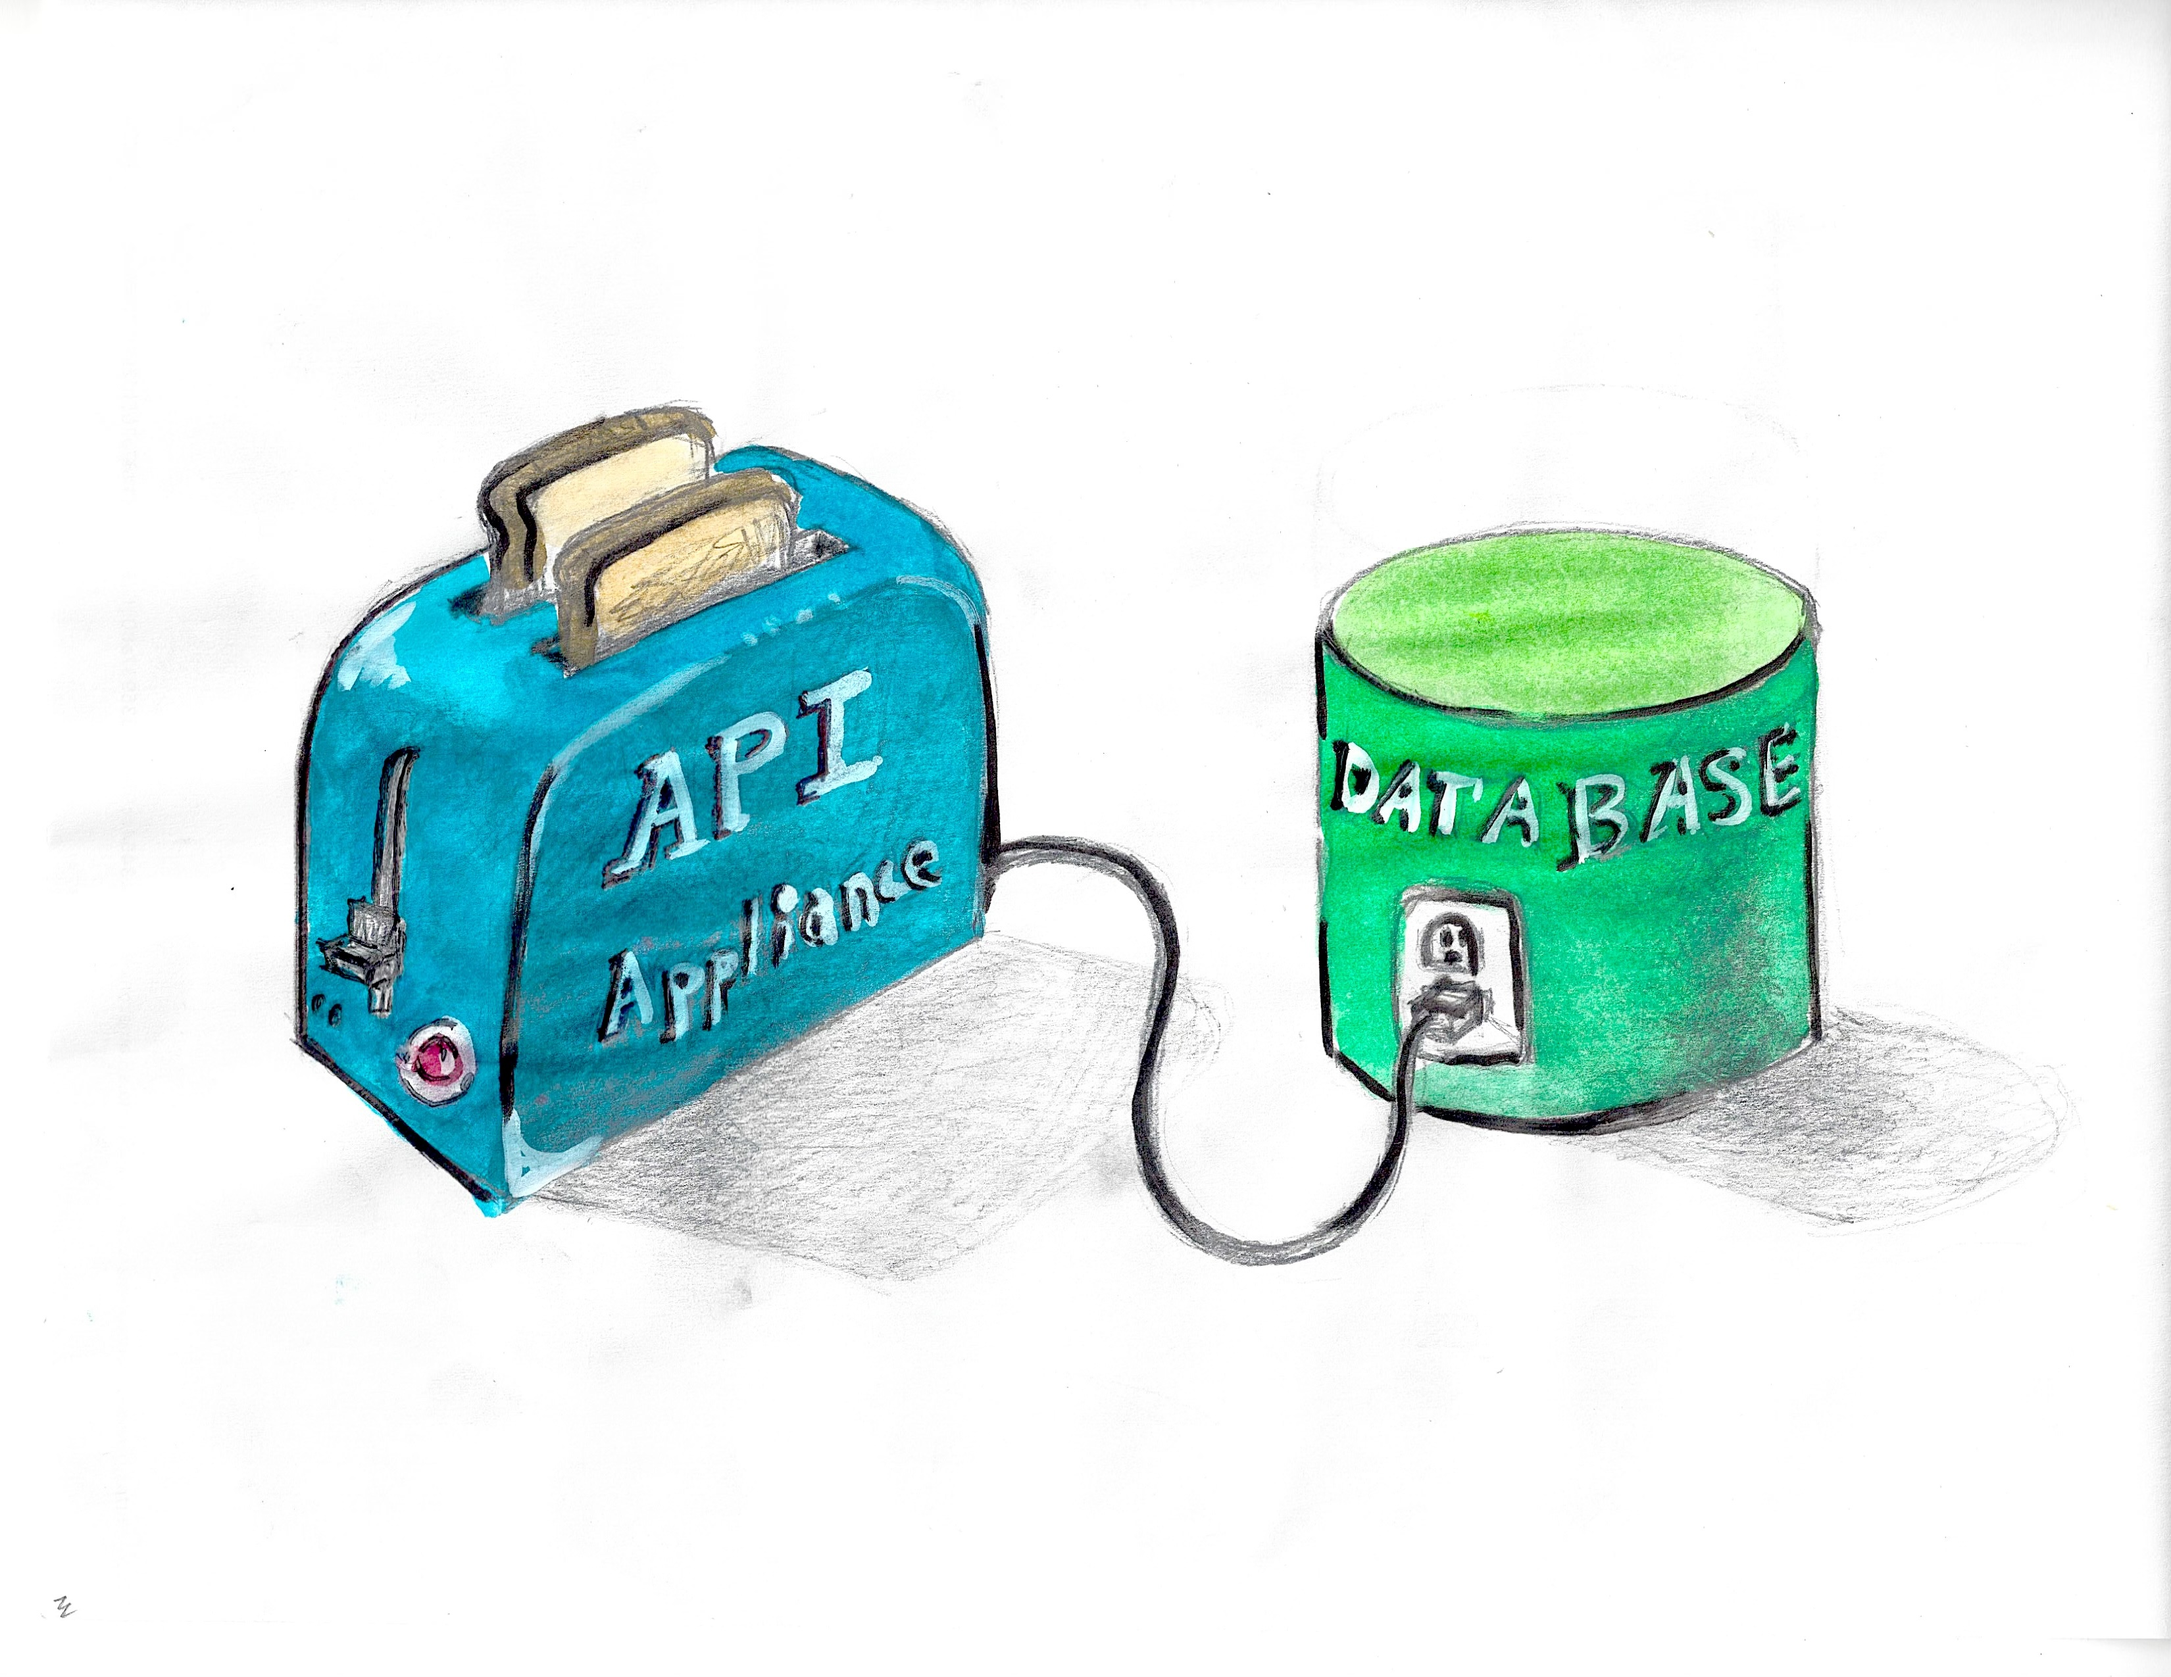
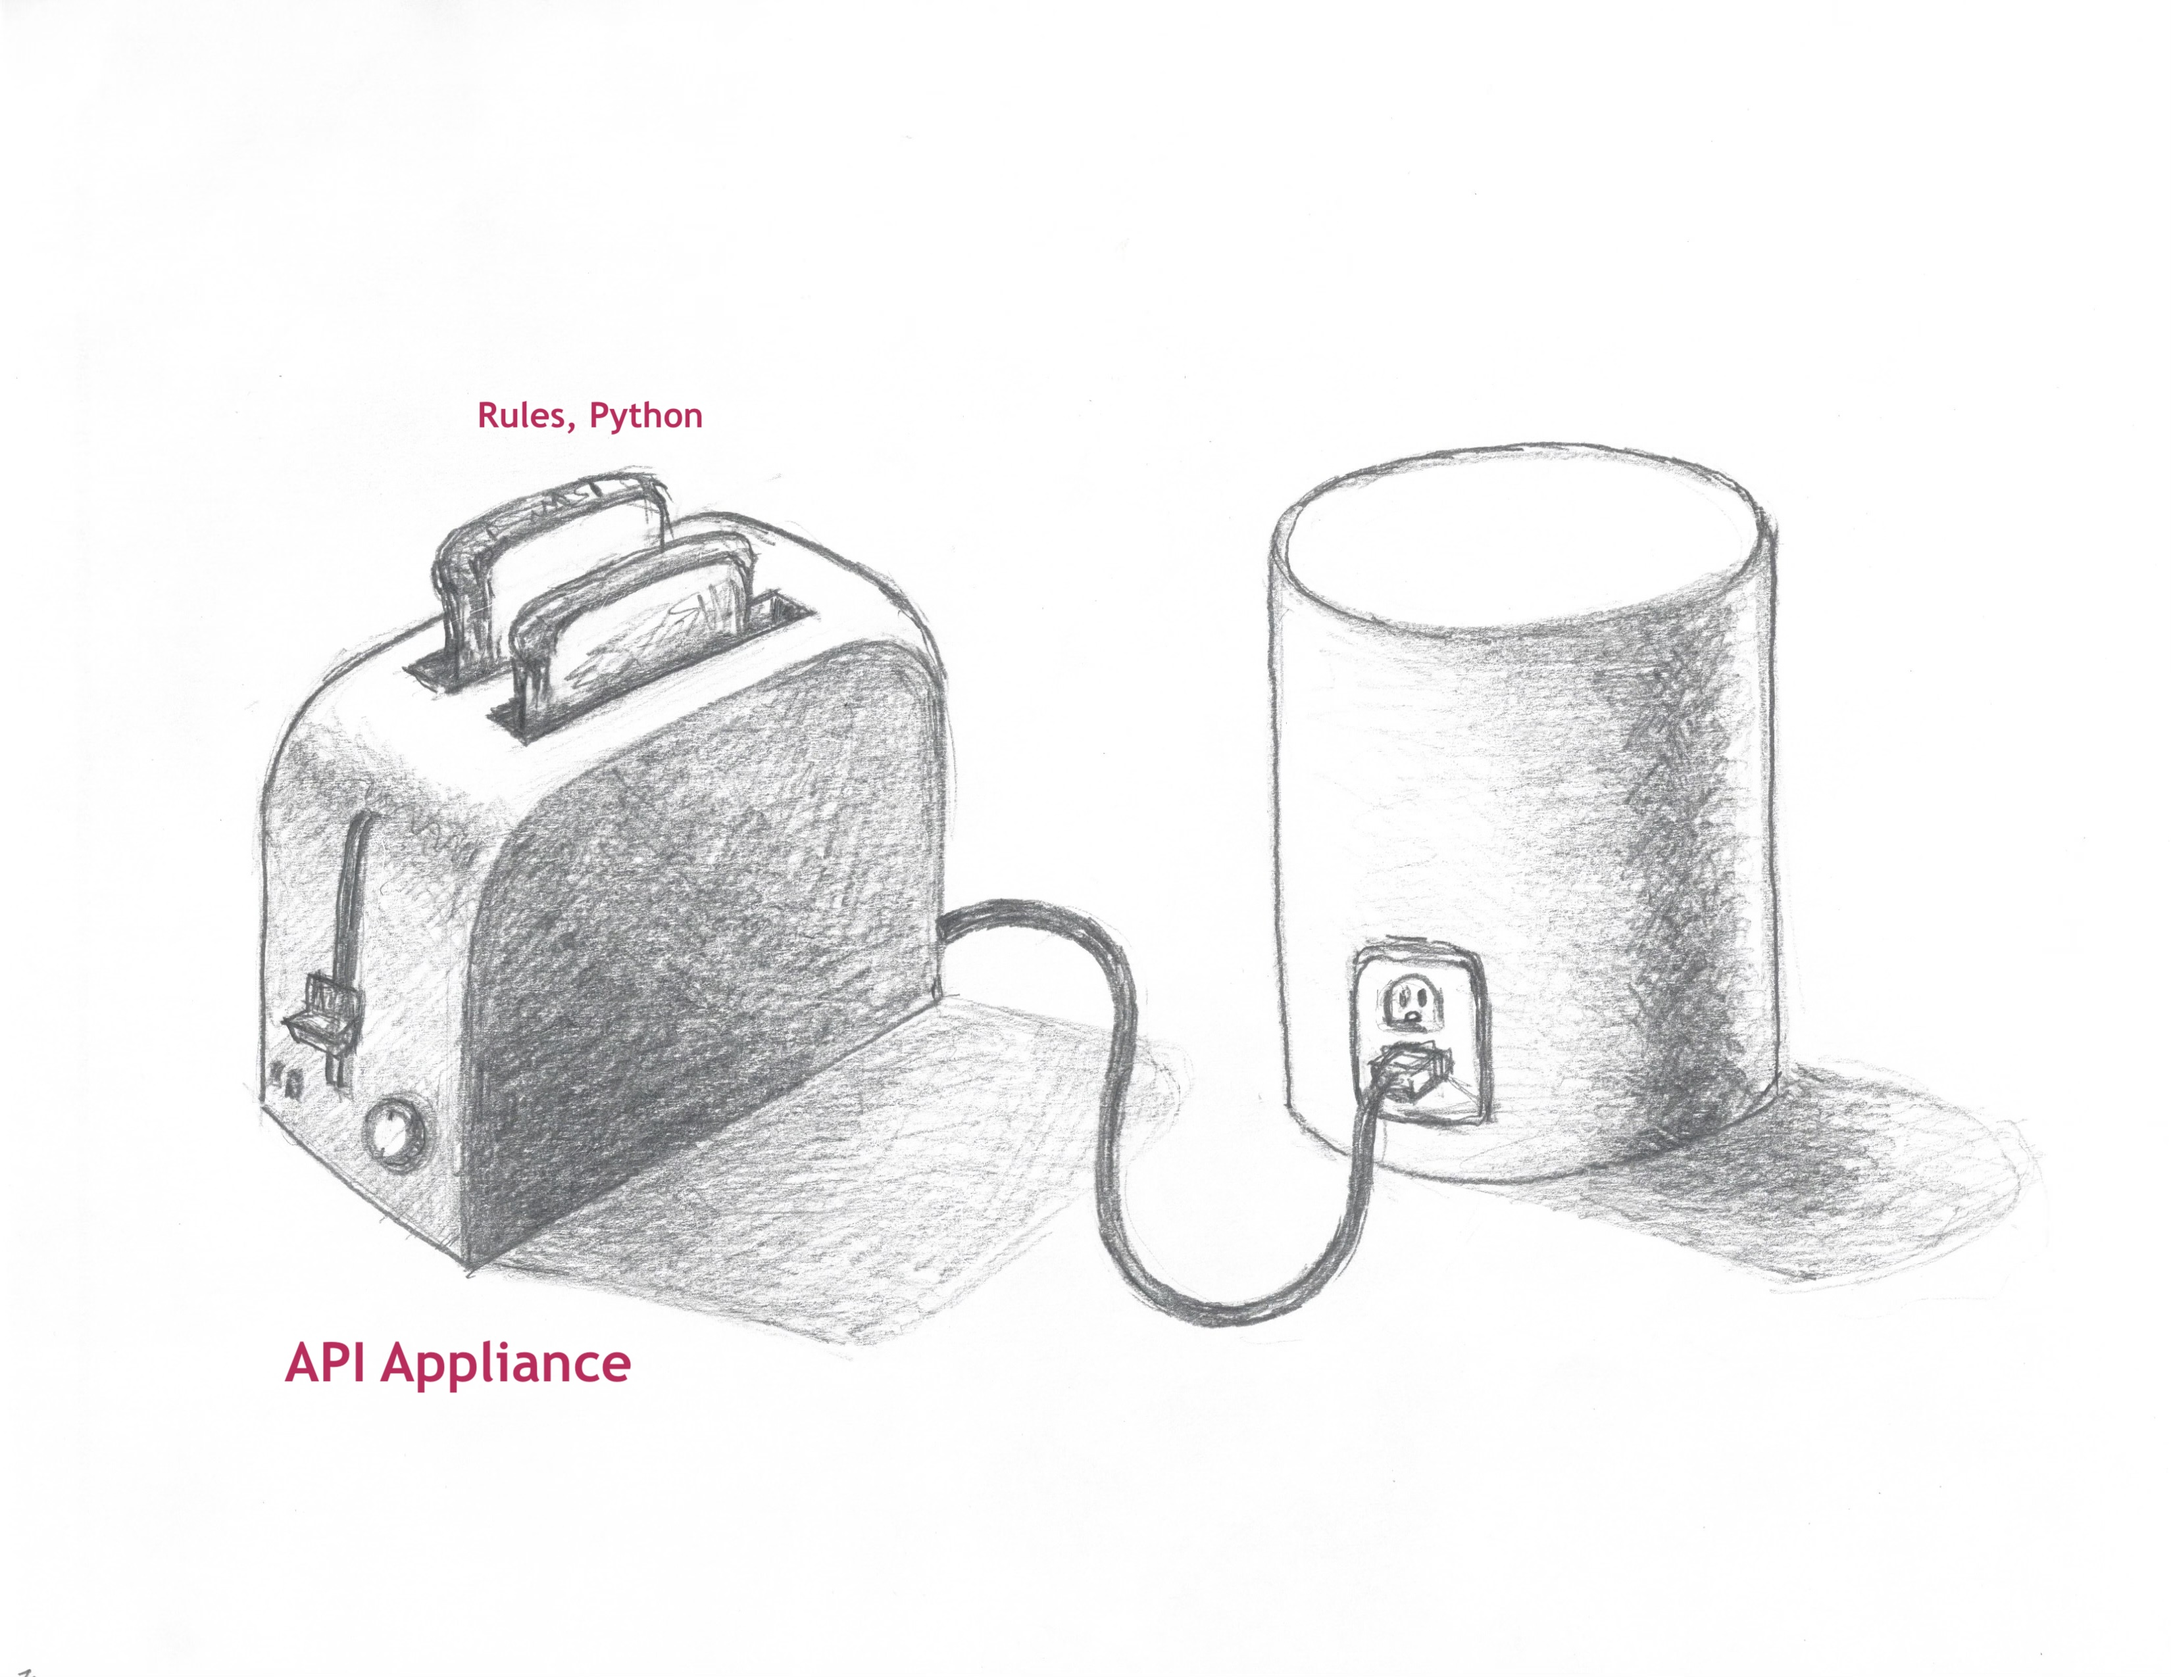
typos, api appliance

diff --git a/docs/Tech-Toaster.md b/docs/Tech-Toaster.md
@@ -10,6 +10,8 @@
 
 ## 1. Plug It In
 
+Here's how you plug the docker appliance into your database:
+
 ```bash
 > docker run -it --name api_logic_server --rm -p 5656:5656 -p 5002:5002 -v ${PWD}:/localhost apilogicserver/api_logic_server
 
@@ -20,7 +22,7 @@ $ ApiLogicServer create-and-run --project_name=/localhost/sample_ai --db_url=sql
 
 &nbsp;
 
-### It Runs
+### It Runs: Admin App and API
 
 You have a running system: a multi-page ***Admin App:***
 
@@ -34,13 +36,15 @@ The app is supported by a multi-table ***JSON:API with Swagger***, supporting cu
 
 &nbsp;
 
-## 2. Add Logic Using Your IDE
+## 2. Add Logic Using Rules
 
 Behind the running application is a project you can open with your IDE, and add logic:
 
 ![Logic](images/sample-ai/rules.jpg)
 
 The 5 spreadsheet-like rules above perform the same logic as 200 lines of Python: the bakend half of your system is ***40X more concise.***
+
+Similar rules are provided for granting row-level access to user roles.
 
 &nbsp;
 
